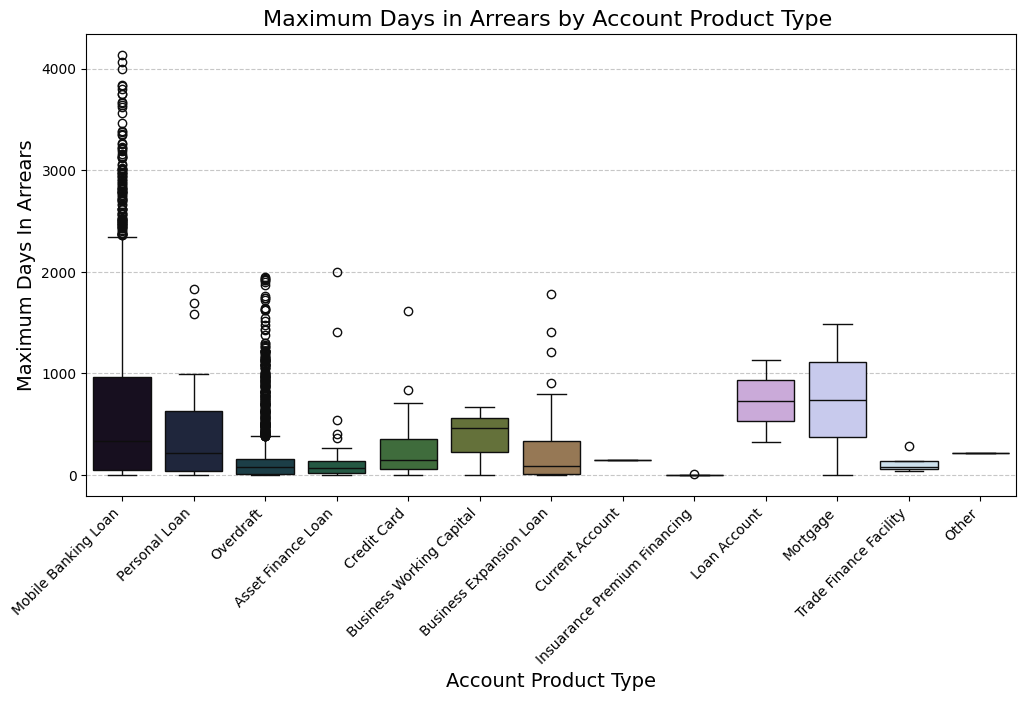
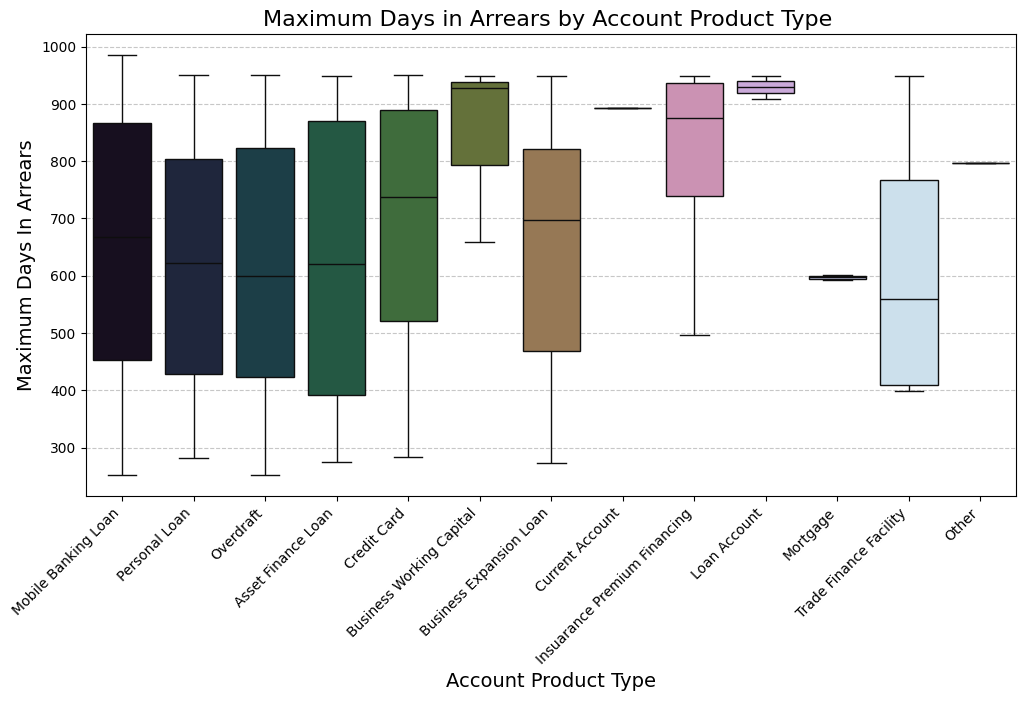
Forecasts

diff --git a/src/app/views/pages/dashboard/dashboard.component.html b/src/app/views/pages/dashboard/dashboard.component.html
@@ -247,36 +247,36 @@
 
 <!-- Live Predictive Trends (Next-Day Prediction) -->
 <div class="card p-3 mt-3">
-  <h3>📊 Live Predictive Trends (Next-Day Prediction)</h3>
+  <h3>📊 Live Predictive Trends (Next- 20 Days  Prediction)</h3>
   <ul class="list-group">
       <li class="list-group-item d-flex justify-content-between align-items-center" 
-          (click)="showChart('Loan Default Risk')" 
+          (click)="showChart('Total Transactions')" 
           data-bs-toggle="tooltip" 
           data-bs-placement="top" 
-          title="Probability of loan default (higher means riskier customers)">
-          Loan Default Risk  
+          title="Total Transactions(higher means riskier customers)">
+          Total  
           <span class="text-danger">
-              82.3% 🔻
+              9,000 🔻
           </span>
       </li>
       <li class="list-group-item d-flex justify-content-between align-items-center" 
-          (click)="showChart('Interest Rate Movement')" 
+          (click)="showChart('Loan Repayment Trends')" 
           data-bs-toggle="tooltip" 
           data-bs-placement="top" 
-          title="Predicted fluctuation in interest rates for loans and deposits">
-          Interest Rate Movement  
+          title="Loan repayment trends (higher means riskier customers)">
+          Loan Repayment Trends Interest Rate Movement
           <span class="text-success">
-              +0.25% 📈
+              All loans will be repaid 📈
           </span>
       </li>
       <li class="list-group-item d-flex justify-content-between align-items-center" 
-          (click)="showChart('Banking Sector Index')" 
+          (click)="showChart('Loan Default Rates')" 
           data-bs-toggle="tooltip" 
           data-bs-placement="top" 
-          title="Predicted movement in the banking stock index">
-          Banking Sector Index  
+          title="Loan Default Rates (higher means riskier customers)">
+          Loan Default Rates 
           <span class="text-danger">
-              5,320.80 🔻
+              78 % 🔻
           </span>
       </li>
       <li class="list-group-item d-flex justify-content-between align-items-center" 

diff --git a/src/app/views/pages/dashboard/dashboard.component.ts b/src/app/views/pages/dashboard/dashboard.component.ts
@@ -1145,9 +1145,9 @@ handleChatResponse(response: string) {
 
     // Define mapping of prediction types to chart images
     const chartImageMap: { [key: string]: string } = {
-      'Loan Default Risk': 'loan_default_risk_chart.png',
-      'Interest Rate Movement': 'interest_rate_movement_chart.png',
-      'Banking Sector Index': 'banking_sector_index_chart.png',
+      'Total Transactions': 'Total_transactions.png',
+      'Loan Repayment Trends': 'Loan_repayment.png',
+      'Loan Default Rates': 'Default_rates.png',
       'Customer Deposits Growth': 'customer_deposits_growth_chart.png',
       'Fraud Risk Indicator': 'fraud_risk_indicator_chart.png'
     };
